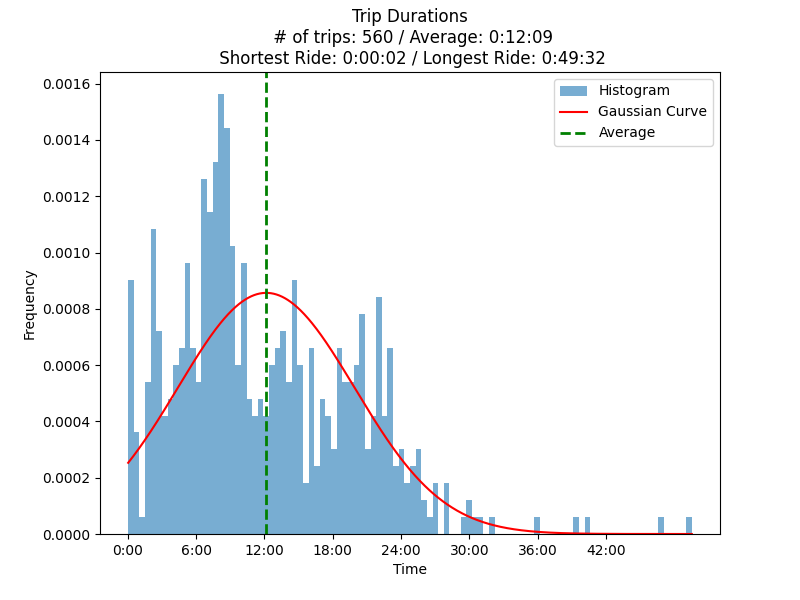
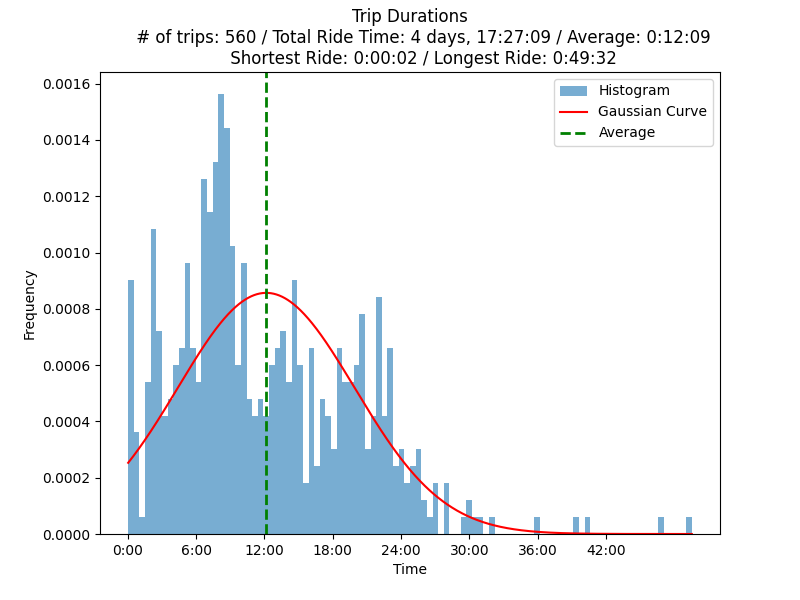
Added a cost saving calculation function as well as some tweaks to the ride time graph and GUI

Changed region(s): [[0.1875, 0.03, 0.875, 0.12]]

diff --git a/Outputs/start_heatmap_map.html b/Outputs/start_heatmap_map.html
@@ -25,7 +25,7 @@
             <meta name="viewport" content="width=device-width,
                 initial-scale=1.0, maximum-scale=1.0, user-scalable=no" />
             <style>
-                #map_fb9a90fc5b70845d2bcd7ddc498016d6 {
+                #map_1bfcec76f8bab6fc01476c4cf618d80e {
                     position: relative;
                     width: 100.0%;
                     height: 100.0%;
@@ -40,14 +40,14 @@
 <body>
     
     
-            <div class="folium-map" id="map_fb9a90fc5b70845d2bcd7ddc498016d6" ></div>
+            <div class="folium-map" id="map_1bfcec76f8bab6fc01476c4cf618d80e" ></div>
         
 </body>
 <script>
     
     
-            var map_fb9a90fc5b70845d2bcd7ddc498016d6 = L.map(
-                "map_fb9a90fc5b70845d2bcd7ddc498016d6",
+            var map_1bfcec76f8bab6fc01476c4cf618d80e = L.map(
+                "map_1bfcec76f8bab6fc01476c4cf618d80e",
                 {
                     center: [43.653339189811796, -79.36496897399171],
                     crs: L.CRS.EPSG3857,
@@ -61,16 +61,16 @@
 
         
     
-            var tile_layer_8900fd1bb5a391a2b937cc29569319ce = L.tileLayer(
+            var tile_layer_ad8af5eca9341db2a4629331aa00859d = L.tileLayer(
                 "https://{s}.tile.openstreetmap.org/{z}/{x}/{y}.png",
                 {"attribution": "Data by \u0026copy; \u003ca target=\"_blank\" href=\"http://openstreetmap.org\"\u003eOpenStreetMap\u003c/a\u003e, under \u003ca target=\"_blank\" href=\"http://www.openstreetmap.org/copyright\"\u003eODbL\u003c/a\u003e.", "detectRetina": false, "maxNativeZoom": 18, "maxZoom": 18, "minZoom": 0, "noWrap": false, "opacity": 1, "subdomains": "abc", "tms": false}
-            ).addTo(map_fb9a90fc5b70845d2bcd7ddc498016d6);
+            ).addTo(map_1bfcec76f8bab6fc01476c4cf618d80e);
         
     
-            var heat_map_40b4004c137721836c39f00aa965aad1 = L.heatLayer(
-                [[43.653339189811796, -79.36496897399171, 14], [43.6572018, -79.3743738, 20], [43.6541862, -79.3652666, 9], [43.6466792, -79.3827709, 27], [43.6620697, -79.3668149, 5], [43.6505369, -79.377921, 158], [43.669115, -79.3793807, 2], [43.65690292756406, -79.37854144306614, 1], [43.6628854, -79.3835168, 1], [43.66611012212478, -79.40667964746912, 1], [43.6390011, -79.4008379, 4], [43.6641536, -79.3678238, 2], [43.648991509352406, -79.37863025118989, 2], [43.65240097833613, -79.36738658196664, 2], [51.5283706, -0.1157698, 1], [43.64516208005284, -79.36546389057112, 1], [43.63266385, -79.3242128314069, 4], [43.66874924814692, -79.29138409914165, 1], [43.6551426, -79.3659375, 4], [34.7529385, -79.489493, 4], [43.636393749999996, -79.41986097422762, 2], [43.6518605, -79.3659319, 3], [43.63739613451603, -79.40612171600311, 50], [43.6348661579098, -79.40907311509858, 1], [43.66432575, -79.40281505, 81], [43.65013976200553, -79.38611012416523, 1], [43.65819629206575, -79.37237783154258, 1], [43.644871753471605, -79.40304417522952, 2], [43.6394636, -79.383704, 1], [43.650449871107995, -79.38457274639377, 1], [43.6658944, -79.4010004, 3], [54.5833187, -0.9720134, 12], [43.6499931, -79.3912123, 2], [43.64099114188913, -79.38776886173602, 3], [43.639157, -79.3996475, 4], [43.6365828, -79.4001581, 7], [34.0560576, -118.23625350485408, 1], [43.6626555, -79.3766333, 3], [43.64854585487397, -79.38090593290008, 2], [43.6501395, -79.3725329, 3], [43.655548, -79.3835122, 2], [43.645224830874064, -79.38319791722124, 3], [43.6552868, -79.3805856, 8], [43.64873517436065, -79.37961624630012, 1], [43.6414535, -79.4145602, 2], [43.66340035, -79.40217507486187, 13], [43.667122750000004, -79.3995476, 7], [43.6623765, -79.3817285, 3], [43.6692297, -79.3876861, 1], [43.64118243343749, -79.3768608743376, 2], [43.6453549, -79.4125613, 1], [43.661366, -79.378982, 1], [43.6637002, -79.3870773, 1], [43.64902635, -79.3954413, 1], [-45.8605135, 170.5112471, 1], [43.6527944, -79.3779172, 3], [43.6520037, -79.377527, 1], [43.251678299999995, -79.8514515108541, 10], [43.6444862, -79.39967139999999, 4], [43.6658944, -79.4010004, 2], [43.6526421, -79.374142, 1], [43.90674, -78.8164141, 1], [43.64161246574678, -79.3754182841772, 1], [43.64172871936933, -79.37709286336468, 3], [43.66613335, -79.37366146529753, 1], [43.66045454260344, -79.38550593841289, 1], [43.65493557358157, -79.39869213994943, 1], [43.638155708522774, -79.3975186737966, 3], [44.5808971, -79.8723842, 2], [43.65611690458023, -79.38161080753405, 1], [43.6501014, -79.3964539, 1], [43.64996315, -79.37399005, 2], [43.641767, -79.396077, 2], [43.6576943, -79.39551007539433, 1], [43.6472034, -79.3799642, 3], [43.6642354, -79.3982272, 1], [43.660438420267894, -79.39693272085542, 2], [43.66208615, -79.397858, 1], [43.66009523286462, -79.39868570406395, 2], [43.00477145, -81.22050520796864, 2], [43.6496399, -79.3936198, 1], [43.6548199, -79.3882736, 2], [43.63700985, -79.3437950730717, 1], [43.666616252698816, -79.30059532683305, 1], [43.67671389584629, -79.35643003310071, 1], [43.65111315, -79.39736715412994, 1], [43.63558375535192, -79.4035811953714, 2], [43.6455956, -79.39412436897669, 1], [43.66583835, -79.40501209221284, 1], [43.639874571108564, -79.39563486173606, 1], [53.7877454, -1.7514365, 1], [43.64640455, -79.39898661929963, 2]],
+            var heat_map_78baedfb1cbcda181c59d5290a4152aa = L.heatLayer(
+                [[43.653339189811796, -79.36496897399171, 14], [43.65690292756406, -79.37854144306614, 1], [43.66611012212478, -79.40667964746912, 1], [43.648991509352406, -79.37863025118989, 2], [43.65240097833613, -79.36738658196664, 2], [43.64516208005284, -79.36546389057112, 1], [43.66874924814692, -79.29138409914165, 1], [43.63739613451603, -79.40612171600311, 50], [43.6348661579098, -79.40907311509858, 1], [43.65013976200553, -79.38611012416523, 1], [43.65819629206575, -79.37237783154258, 1], [43.644871753471605, -79.40304417522952, 2], [43.650449871107995, -79.38457274639377, 1], [43.64099114188913, -79.38776886173602, 3], [43.64854585487397, -79.38090593290008, 2], [43.645224830874064, -79.38319791722124, 3], [43.64873517436065, -79.37961624630012, 1], [43.64118243343749, -79.3768608743376, 2], [43.64161246574678, -79.3754182841772, 1], [43.64172871936933, -79.37709286336468, 3], [43.66045454260344, -79.38550593841289, 1], [43.65493557358157, -79.39869213994943, 1], [43.638155708522774, -79.3975186737966, 3], [43.65611690458023, -79.38161080753405, 1], [43.660438420267894, -79.39693272085542, 2], [43.66009523286462, -79.39868570406395, 2], [43.666616252698816, -79.30059532683305, 1], [43.67671389584629, -79.35643003310071, 1], [43.63558375535192, -79.4035811953714, 2], [43.639874571108564, -79.39563486173606, 1]],
                 {"blur": 15, "maxZoom": 18, "minOpacity": 0.5, "radius": 25}
-            ).addTo(map_fb9a90fc5b70845d2bcd7ddc498016d6);
+            ).addTo(map_1bfcec76f8bab6fc01476c4cf618d80e);
         
 </script>
 </html>

diff --git a/Cost_Savings_Calculator.py b/Cost_Savings_Calculator.py
@@ -1,0 +1,32 @@
+from datetime import datetime
+
+def cost_savings_calculator():
+    # Read the text file and convert it into a list of lists
+    dataset = []
+    with open('list_file.txt', 'r') as file:
+        for line in file:
+            elements = line.strip().split(',')
+            dataset.append(elements)
+    # print(dataset[0])
+
+    datetime_time = [datetime.strptime(time.strip(), '%m-%d-%Y %H:%M:%S') for time in dataset[0]]
+    numeric_durations = [(dt.year * 365*30*24*60*60) + (dt.month * 30*24*60*60) + (dt.day * 24*60*60) + (dt.hour * 60*60) + (dt.minute * 60) + dt.second for dt in datetime_time]
+
+    ttc_trip_cost = 3.3         # Cost of a TTC ticket
+    max_connection_time = 2     # Number of our hours you can wait before you have to buy another ticket
+    bikeshare_subscription_cost = 120*1.13  # Cost of yearly subscription to Toronto Bike Share + taxes
+
+    equivalent_ttc_tickets = 0
+    for i in range(len(numeric_durations)-1):
+        if numeric_durations[i] < (numeric_durations[i+1] + max_connection_time*60*60):
+            equivalent_ttc_tickets = equivalent_ttc_tickets + 1
+
+    savings = (ttc_trip_cost * equivalent_ttc_tickets) - bikeshare_subscription_cost
+    if savings > 0:
+        print("By using Toronto Bike Share you've saved at least " + str(savings) + "$")
+    else:
+        print("You didn't take enough trips, you've lost " + str(savings) + "$")
+
+    return(savings)
+
+cost_savings_calculator()

diff --git a/main.py b/main.py
@@ -1,7 +1,10 @@
 import tkinter as tk
 from PIL import ImageTk, Image
+from tkinterhtml import HtmlFrame
+from html.parser import HTMLParser
 from Selenium_GetData import selenium_getdata
 from Present_Data import present_data
+from Cost_Savings_Calculator import cost_savings_calculator
 
 # Global Definition
 image_tk1 = None
@@ -37,13 +40,17 @@ def get_and_present():
     labelMonth = tk.Label(window, image=image_tk1)
     labelMonth.grid(row=0, column=0)
 
-    image_tk2 = ImageTk.PhotoImage(Image.open("Outputs/TimeOfDayHist.jpeg").resize((400, 300)))
+    image_tk2 = ImageTk.PhotoImage(Image.open("Outputs/TimeOfDayHist.png").resize((400, 300)))
     labelTime = tk.Label(window, image=image_tk2)
     labelTime.grid(row=0, column=1)
 
     image_tk3 = ImageTk.PhotoImage(Image.open("Outputs/RidesDurationsHist.png").resize((400, 300)))
     labelDuration = tk.Label(window, image=image_tk3)
-    labelDuration.grid(row=0, column=2)
+    labelDuration.grid(row=1, column=0)
+
+    savings = "By using Toronto Bike Share you've saved at least "+str(cost_savings_calculator())+"$"
+    text_label = tk.Label(window, text=savings)
+    text_label.grid(row=1, column=1)
 
     # Update the window
     window.update()

diff --git a/Present_Data.py b/Present_Data.py
@@ -80,6 +80,7 @@ def present_data():
     std_dev = np.std(numeric_durations)
     min = np.min(numeric_durations)
     max = np.max(numeric_durations)
+    total = str(timedelta(seconds=round(float(sum(numeric_durations)))))
 
     # Generate data points following a normal distribution
     num_points = 1000
@@ -98,7 +99,7 @@ def present_data():
     plt.xlabel('Time')
     plt.ylabel('Frequency')
     plt.title('Trip Durations\n\
-     # of trips: '+str(len(dataset[1]))+' / Average: '+str(timedelta(seconds=round(float(mean)))).split(", ")[-1]+'\n\
+     # of trips: '+str(len(dataset[1]))+' / Total Ride Time: '+total+' / Average: '+str(timedelta(seconds=round(float(mean)))).split(", ")[-1]+'\n\
      Shortest Ride: '+str(timedelta(seconds=round(float(min)))).split(", ")[-1]+' / Longest Ride: '+str(timedelta(seconds=round(float(max)))).split(", ")[-1])
     plt.legend()
     plt.savefig('Outputs/RidesDurationsHist.png')

diff --git a/README.md b/README.md
@@ -24,4 +24,5 @@ The Bike Share website only lets you look at a limited number of past trips at a
 
 - The geocoder used for the heatmap is incorrectly placing some locations in other countries. Considering how many values currently have to be hardcoded perhaps another method of obtaining the coordinates should be used.
 - The heat values associated with the coordinates may not be fully lining up, need to look into that
-- A frontend UI could be interesting to add to this code, for the login info and start/end dates
+- ~~A frontend UI could be interesting to add to this code, for the login info and start/end dates~~
+- ~~Add a cost savings calculation function to estimate how much money was saved by riding bikes instead of using the TTC~~
